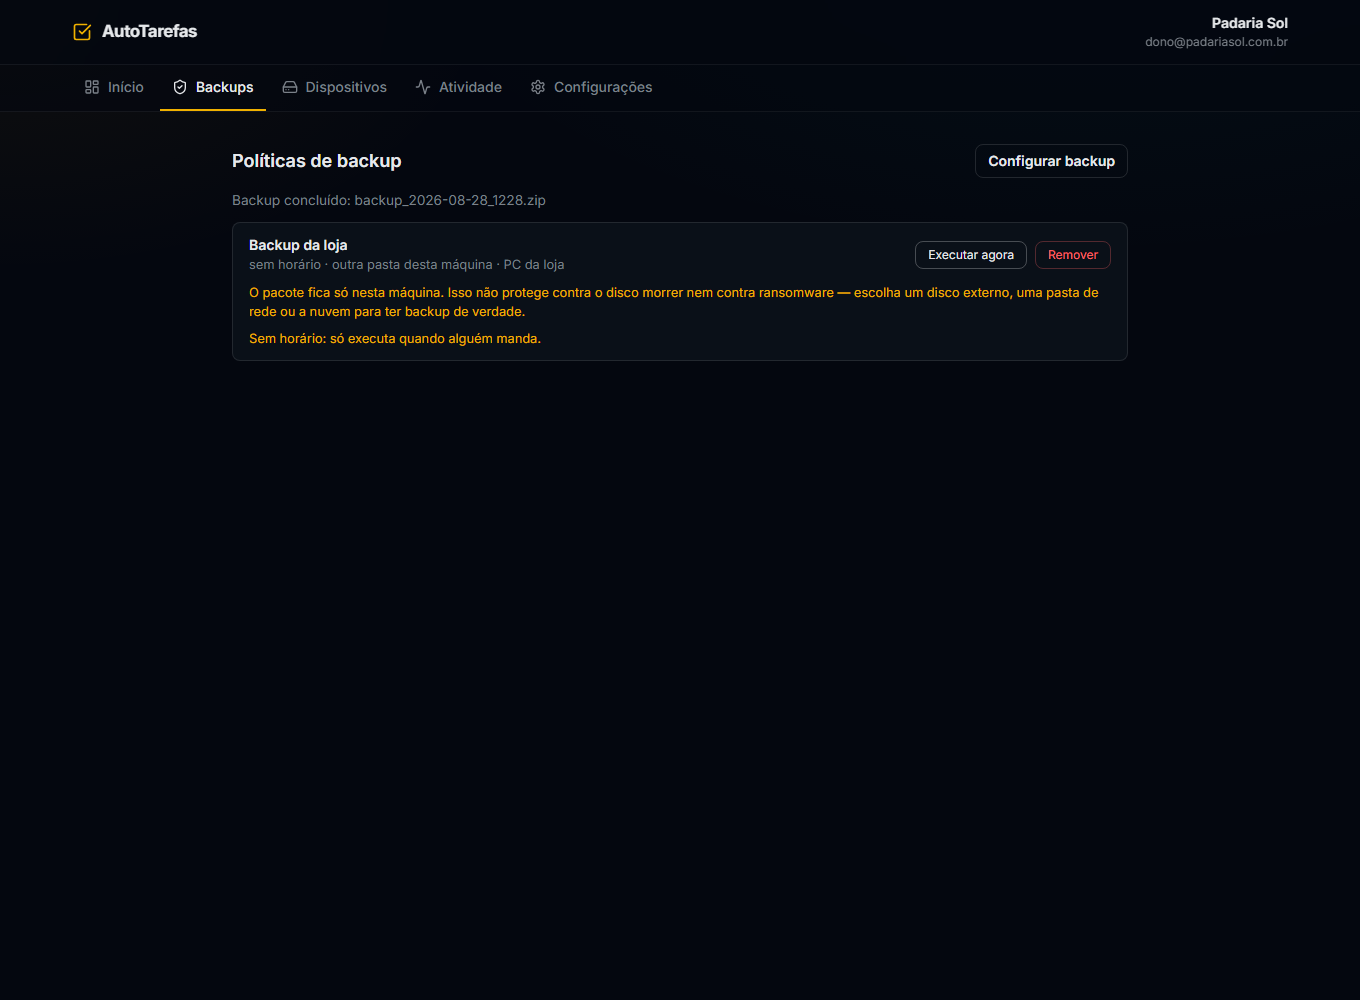
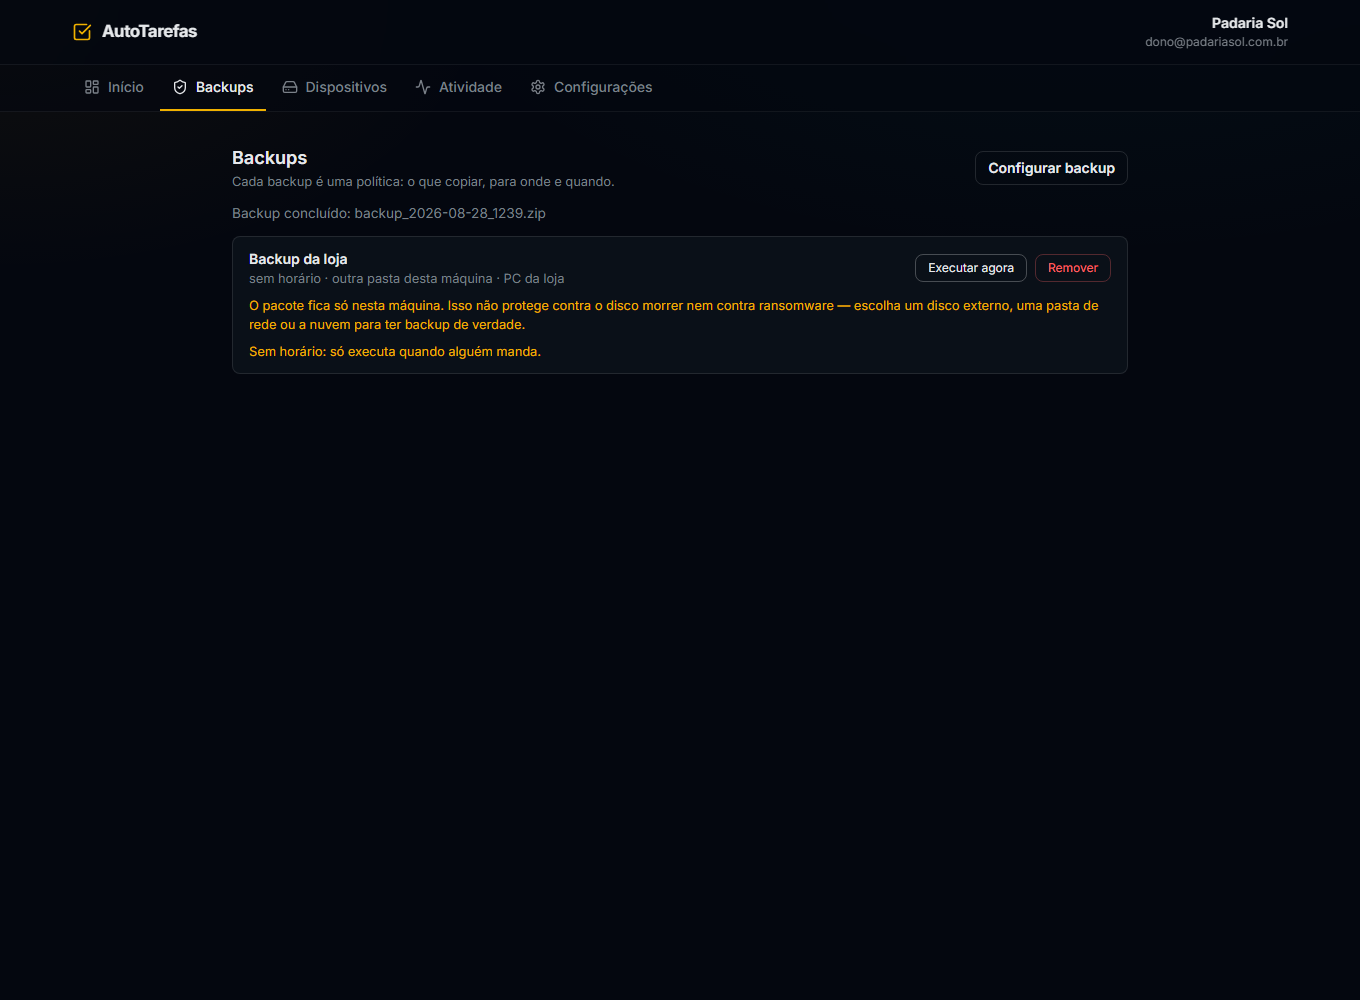
refactor(arq): a tela de backups se chama Backups
O cabecalho dizia "Politicas de backup" enquanto a barra dizia
"Backups". "Politica" e jargao nosso; o cliente tem backup, nao
politica.

A palavra nao sumiu — ela aparece em cada botao adiante ("Nome da
politica", "Politica salva"), e trocar tudo seria churn sem ganho. O
subtitulo passa a APRESENTAR o termo em vez de supor que ele ja e
conhecido: "Cada backup e uma politica: o que copiar, para onde e
quando."

E2E 20/20.

Changed region(s): [[0.1544, 0.155, 0.8029, 0.372], [0.7103, 0.155, 0.8338, 0.186]]

diff --git a/apps/web/src/components/Politicas.tsx b/apps/web/src/components/Politicas.tsx
@@ -138,7 +138,15 @@ export default function Politicas({ papel }: Props) {
   return (
     <section>
       <div className="flex flex-wrap items-center justify-between gap-3">
-        <h2 className="text-lg font-semibold text-fg">Políticas de backup</h2>
+        {/* "Backups" e a palavra da barra e a palavra do cliente. "Politica" e
+            jargao, e aparece adiante em cada botao — entao o subtitulo
+            apresenta o termo em vez de supor que ele ja e conhecido. */}
+        <div>
+          <h2 className="text-lg font-semibold text-fg">Backups</h2>
+          <p className="text-[0.8rem] text-muted">
+            Cada backup é uma política: o que copiar, para onde e quando.
+          </p>
+        </div>
         {administra && dispositivos.length > 0 && (
           <button
             type="button"
